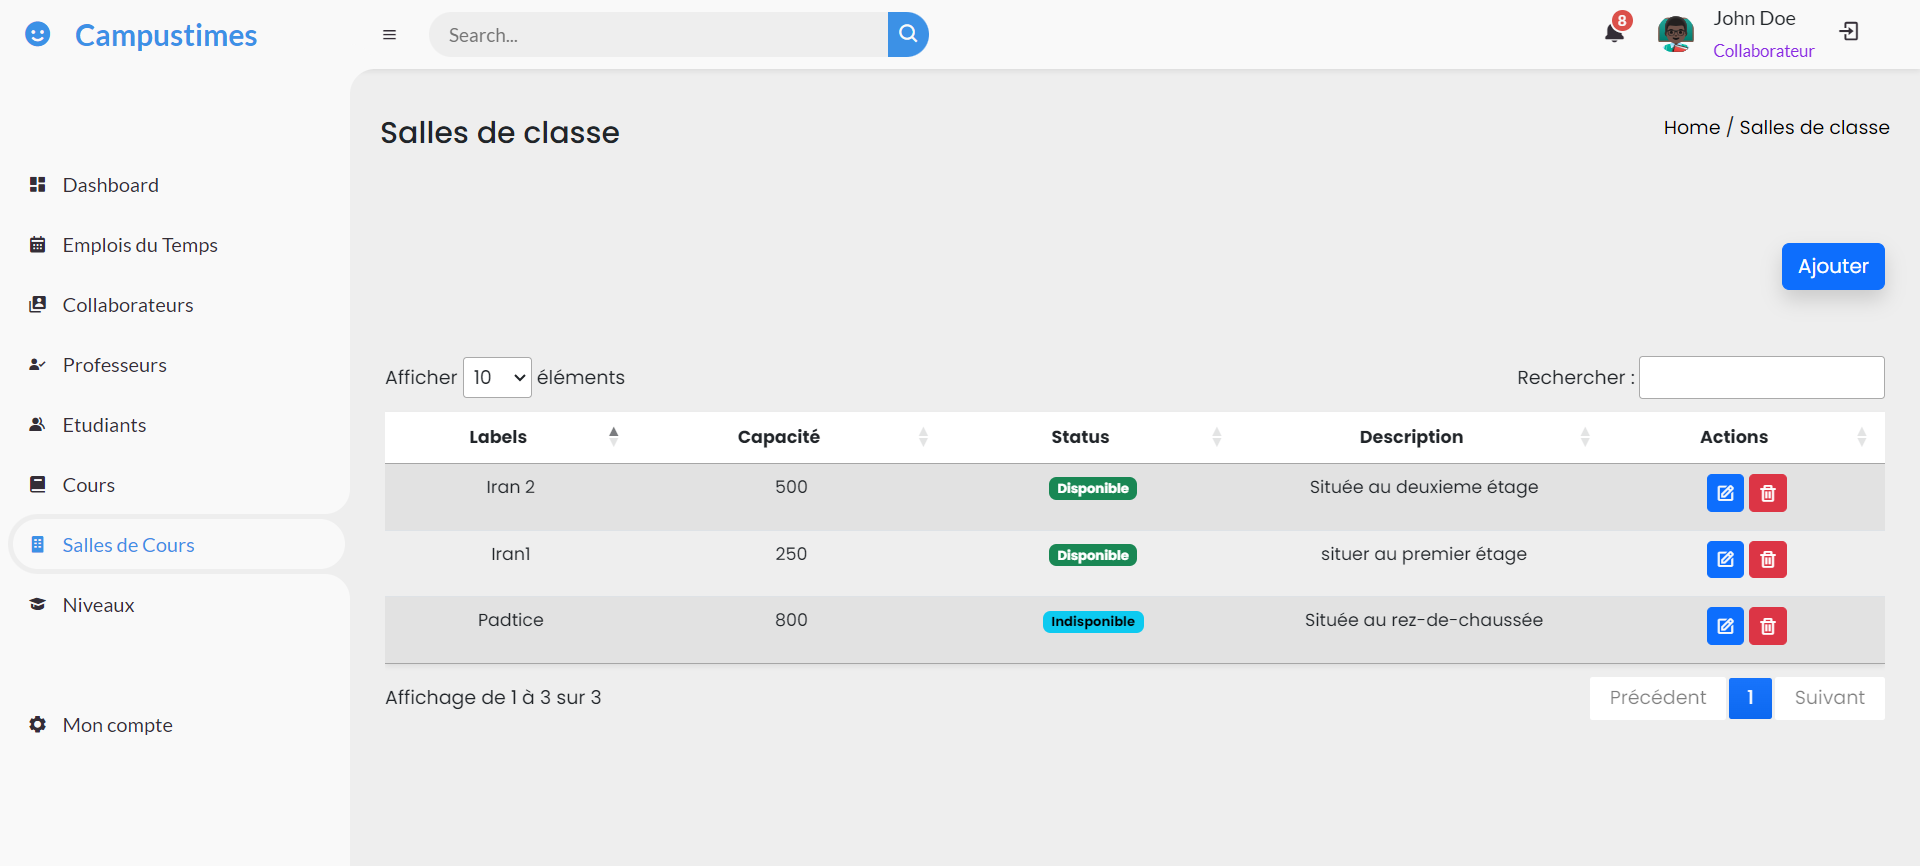
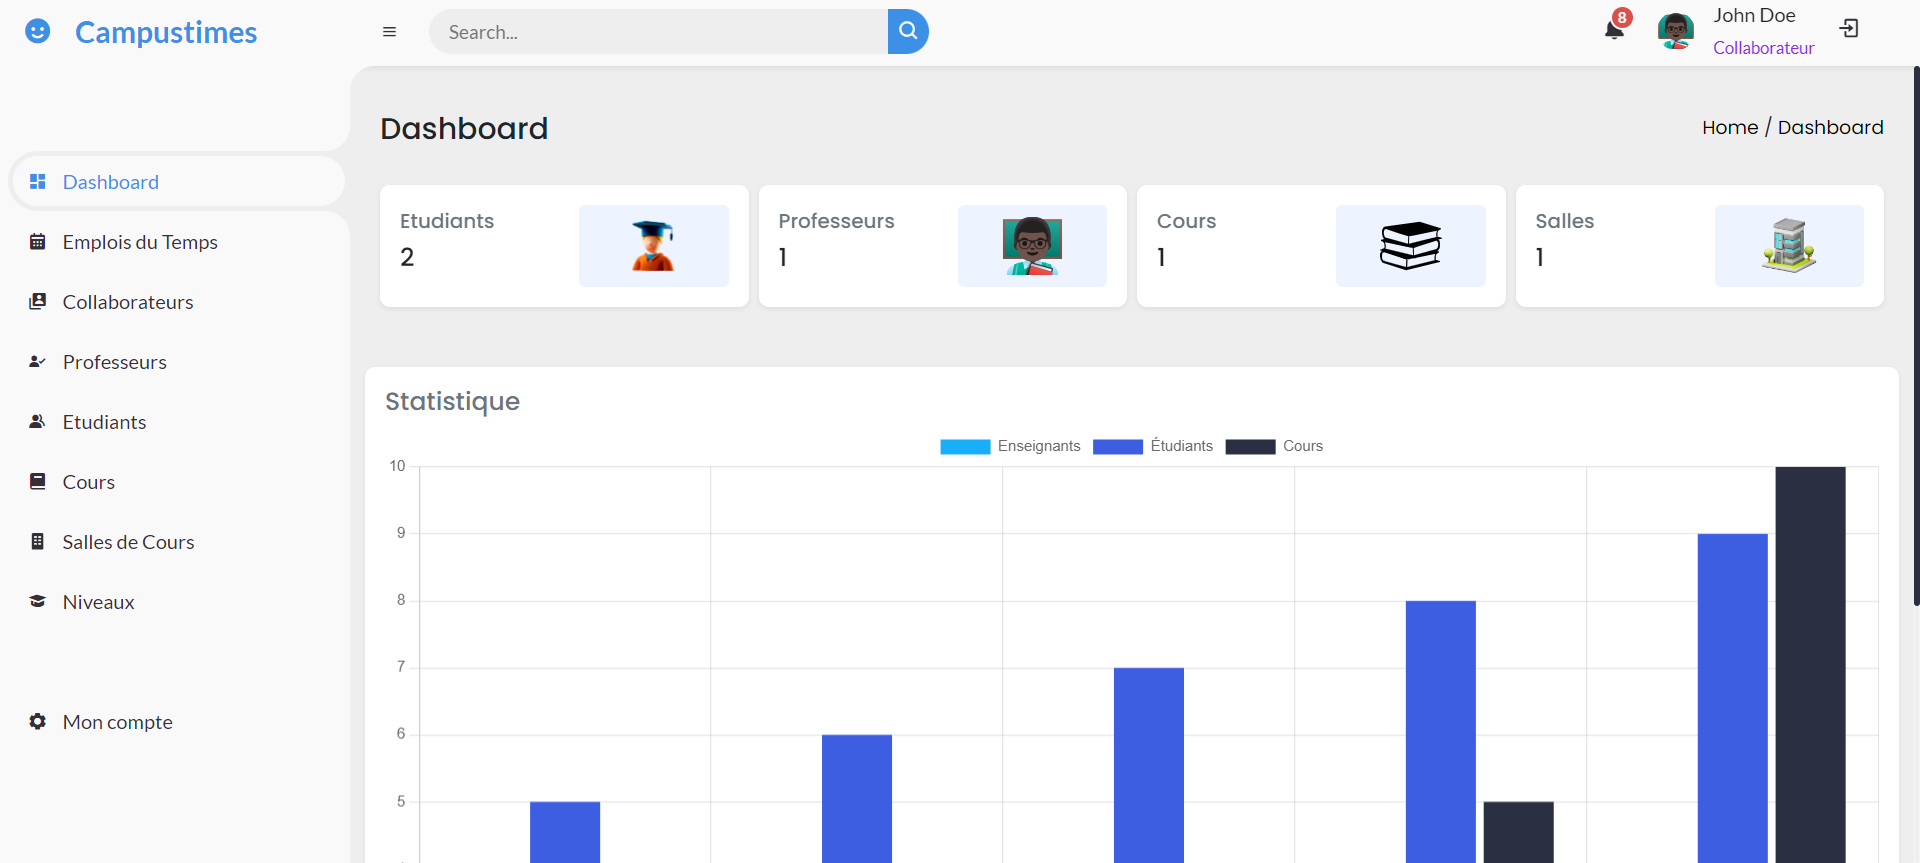
custom the admin dashboard

diff --git a/resources/css/app.css b/resources/css/app.css
@@ -107,9 +107,22 @@ a {
 .left h4{
 	margin-bottom: 14px;
 }
-/* .socialink{
-	margin-bottom: 19px;
-} */
+
+.card-img { background-color: #EDF4FF;} .card-social { background-color: #fff }
+.card-img img, .card-social img { width : 50px; height: 50px;}
+.btn-action { width: 30px; height: 30px}
+.d-grid { display: grid;}
+.grid-3 { grid-template-columns: 3fr 3fr 3fr;} .grid-4 { grid-template-columns: 3fr 3fr 3fr 3fr;}
+.grid-2 { grid-template-columns: 6fr 6fr} .grid-0 { grid-template-columns: 12fr}
+.cursor-pointer { cursor: pointer }
+
+@media (min-width: 992px) {
+    .grid-lg-3 { grid-template-columns: 3fr 3fr 3fr!important;}
+    .grid-lg-4 { grid-template-columns: 3fr 3fr 3fr 3fr!important;}
+    .grid-lg-2 { grid-template-columns: 6fr 6fr!important}
+    .grid-lg-0 { grid-template-columns: 12fr!important} 
+  
+  }
 .socialink ul li i{
 	font-size: 18px;
 	padding: 5px;
@@ -709,7 +722,9 @@ body {
 	.left h4{
 		font-size: 0.95rem;
 	}
-	
+	.grid-2{
+		grid-template-columns: 6fr 6fr !important;
+	}
 }
 
 

diff --git a/resources/views/Partials/main.blade.php b/resources/views/Partials/main.blade.php
@@ -1,6 +1,15 @@
 @php
+use App\Models\User;
+use App\Models\Subject;
+use App\Models\Classroom;
+
     use Illuminate\Support\Facades\Route;
     $route = Route::currentRouteName();
+    $total_students = User::query()->where('role_id', 3)->count();
+    $total_teachers = User::query()->where('role_id', 2)->count();
+    $total_subjects = Subject::all()->count();
+    $total_classrooms = Classroom::all()->count();
+
 @endphp
 <div class="head-title">
     <div class="left">
@@ -52,29 +61,65 @@
     </ul>
 </div>
 @if ( $route === "admin.dashboard")
-<ul class="box-info">
-    <li>
-        <i class='bx bxs-calendar-check' ></i>
-        <span class="text">
-            <h3>1020</h3>
-            <p>New Order</p>
-        </span>
-    </li>
-    <li>
-        <i class='bx bxs-group' ></i>
-        <span class="text">
-            <h3>2834</h3>
-            <p>Visitors</p>
-        </span>
-    </li>
-    <li>
-        <i class='bx bxs-dollar-circle' ></i>
-        <span class="text">
-            <h3>$2543</h3>
-            <p>Total Sales</p>
-        </span>
-    </li>
-</ul>
+<div class="my-3 d-grid grid-2 grid-lg-4 gap-2">
+    <div class="card col border border-1 rounded-3 p-3 container-fluid shadow-sm border-0 animate__animated animate__fadeInDown">
+        <div class="row row-cols-2 justify-content-between">
+            <div class="info align-self-center">
+                <h6 class="text-muted">Etudiants</h6>
+                <h5>{{ $total_students }}</h5>
+            </div>
+            <div>
+                <div class="card-img p-2 text-center">
+                    <img src="{{ asset('storage/image/dash-icon-01.svg')}}" alt="student">
+                </div>
+            </div>
+        </div>
+    </div>
+    <div class="card col border border-1 rounded-3 p-3 container-fluid shadow-sm border-0 animate__animated animate__fadeInUp">
+        <div class="row row-cols-2 justify-content-between">
+            <div class="info align-self-center">
+                <h6 class="text-muted">Professeurs</h6>
+                <h5>{{ $total_teachers }}</h5>
+            </div>
+            <div>
+                <div class="card-img p-2 text-center">
+                    <img src="{{ asset('storage/image/default.svg')}}" alt="student">
+                </div>
+            </div>
+        </div>
+    </div>
+    <div class="card col border border-1 rounded-3 p-3 container-fluid shadow-sm border-0 animate__animated animate__fadeInDown">
+        <div class="row row-cols-2 justify-content-between">
+            <div class="info align-self-center">
+                <h6 class="text-muted">Cours</h6>
+                <h5>{{ $total_subjects }}</h5>
+            </div>
+            <div>
+                <div class="card-img p-2 text-center">
+                    <img src="{{ asset('storage/image/books.svg')}}" alt="student">
+                </div>
+            </div>
+        </div>
+    </div>
+    <div class="card col border border-1 rounded-3 p-3 container-fluid shadow-sm border-0 animate__animated animate__fadeInUp">
+        <div class="row row-cols-2 justify-content-between">
+            <div class="info align-self-center">
+                <h6 class="text-muted">Salles</h6>
+                <h5>{{ $total_classrooms }}</h5>
+            </div>
+            <div>
+                <div class="card-img p-2 text-center">
+                    <img src="{{  asset('storage/image/dash-icon-03.svg')}}" alt="">
+                </div>
+            </div>
+        </div>
+    </div>
+</div>
+<div class="graph row mt-5">
+    <div class="bg-white col col-12 col-lg-12 p-3 rounded-3 shadow-sm">
+        <h5 class="text-muted">Statistique</h5>
+        <canvas id="graph-viewer"></canvas>
+    </div>
 @endif
 {{-- <div class="table-data">
     <div class="order">

diff --git a/resources/views/Base/base.blade.php b/resources/views/Base/base.blade.php
@@ -16,6 +16,7 @@
     <script src="https://cdn.jsdelivr.net/npm/bootstrap@5.2.3/dist/js/bootstrap.bundle.min.js" integrity="sha384-kenU1KFdBIe4zVF0s0G1M5b4hcpxyD9F7jL+jjXkk+Q2h455rYXK/7HAuoJl+0I4" crossorigin="anonymous"></script>
     <script src="https://cdn.datatables.net/2.0.8/js/dataTables.js"></script>
     <script src="https://cdnjs.cloudflare.com/ajax/libs/sweetalert2/11.11.1/sweetalert2.all.min.js" integrity="sha512-awhfGDoHs6zOw2bGnlOX1tFMpn62CLz2skNks2+LiDdJIRi9rkXrf5A1fVb7VgFyymxFVp6EfFqOZFr8sqPu6g==" crossorigin="anonymous" referrerpolicy="no-referrer"></script>
+    <script src="https://cdn.jsdelivr.net/npm/chart.js"></script>
     @vite('resources/css/app.css')
     <title>@yield('title', "Campustimes")</title>
 </head>
@@ -34,5 +35,63 @@
     </div>    
     
     @vite('resources/js/app.js')
+    <script>
+        
+
+$(document).ready(function () {
+
+const testsGraph = {
+
+    labels: ['Licence 1', 'Licence 2', 'Licence 3', 'Master I', 'Master II'],
+    datasets: [
+        {
+            label: 'Enseignants',
+            data: [3, 3, 3, 3, 3],
+            borderColor: '#18aefa', // Couleur de la ligne
+            backgroundColor: '#18aefa', // Couleur de fond
+            fill: false, // Pas de remplissage sous la ligne
+        },
+        {
+            label: 'Étudiants',
+            data: [5, 6, 7, 8, 9],
+            borderColor: '#3D5EE1', // Couleur de la ligne
+            backgroundColor: '#3D5EE1', // Couleur de fond
+            fill: false, // Pas de remplissage sous la ligne
+        },
+        {
+            label: 'Cours',
+            data: [2, 3, 4, 5, 10],
+            borderColor: '#2A3042', // Couleur de la ligne
+            backgroundColor: '#2A3042', // Couleur de fond
+            fill: false, // Pas de remplissage sous la ligne
+        }
+    ]
+};
+
+// Configuration du graphique
+const options = {
+    responsive: true,
+    title: {
+        display: true,
+        text: "Comparaison du nombre d'enseignants, de cours et d'étudiants"
+    },
+    scales: {
+        y: {
+            beginAtZero: true
+        }
+    }
+};
+
+// Création du graphique
+const ctx = document.getElementById('graph-viewer')?.getContext('2d');
+const myChart = ctx && new Chart(ctx, {
+    type: 'bar',
+    data: testsGraph,
+    options: options
+});
+
+})
+
+    </script>
 </body>
 </html>
